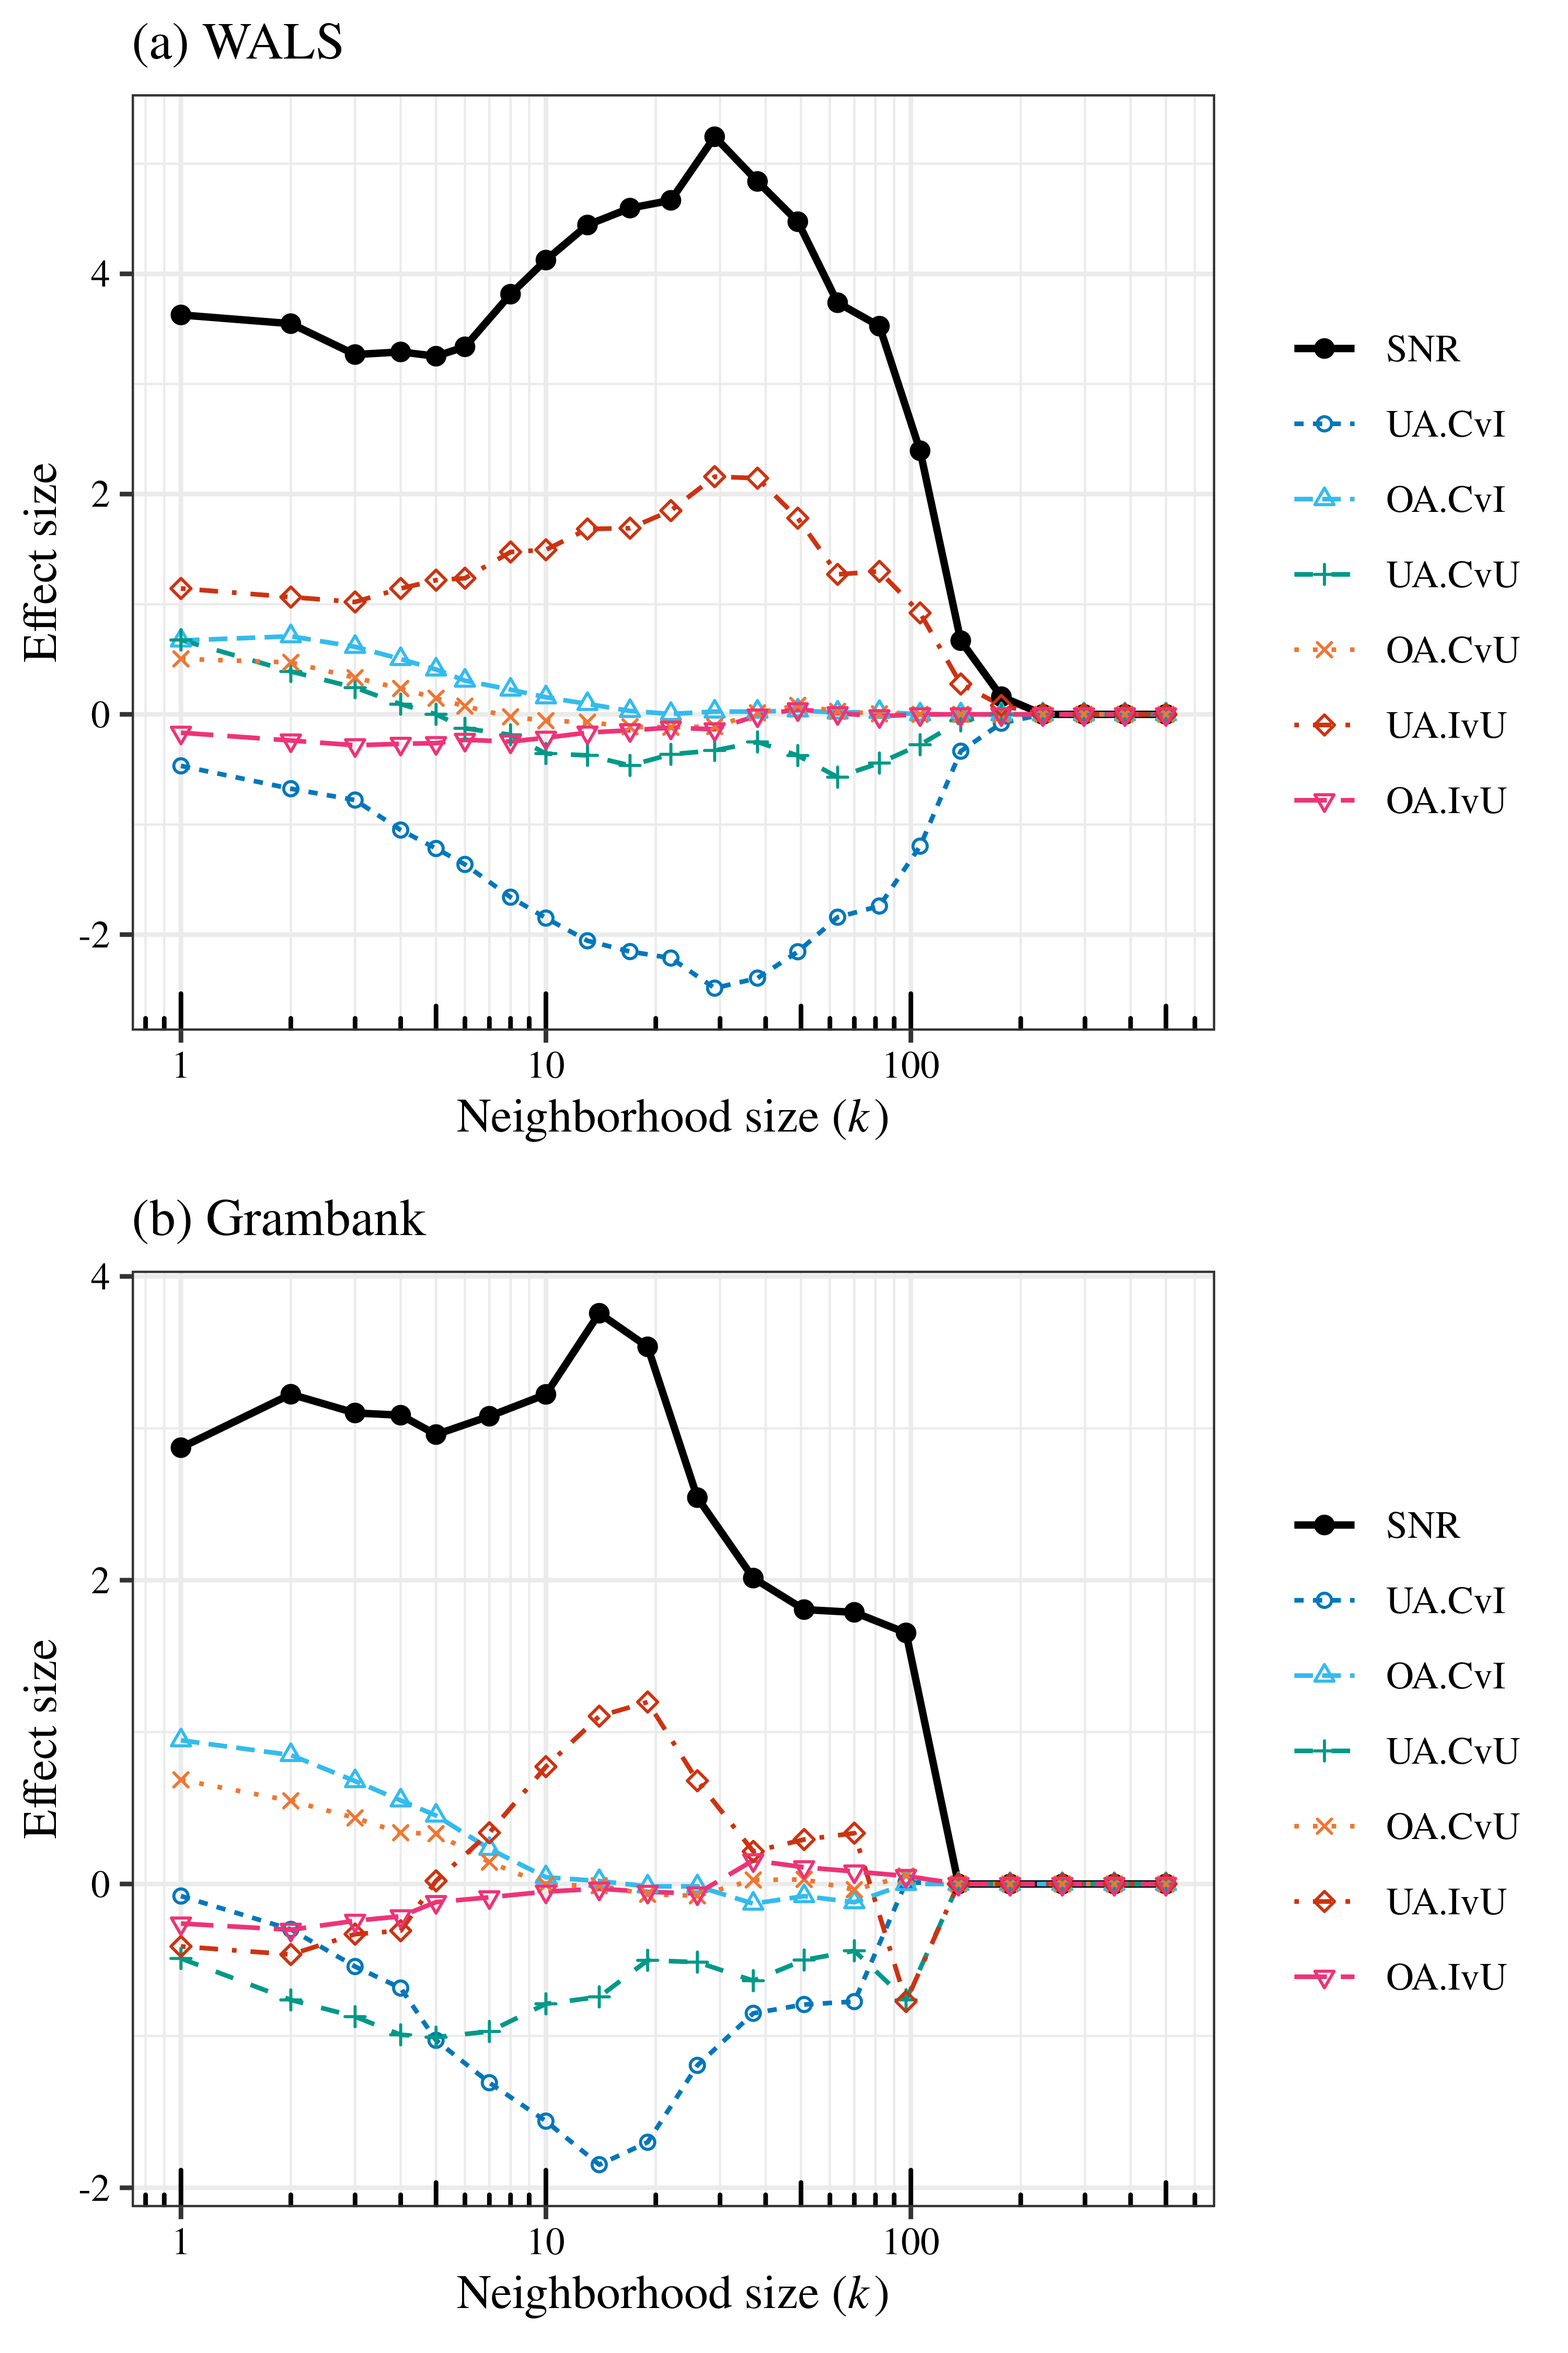
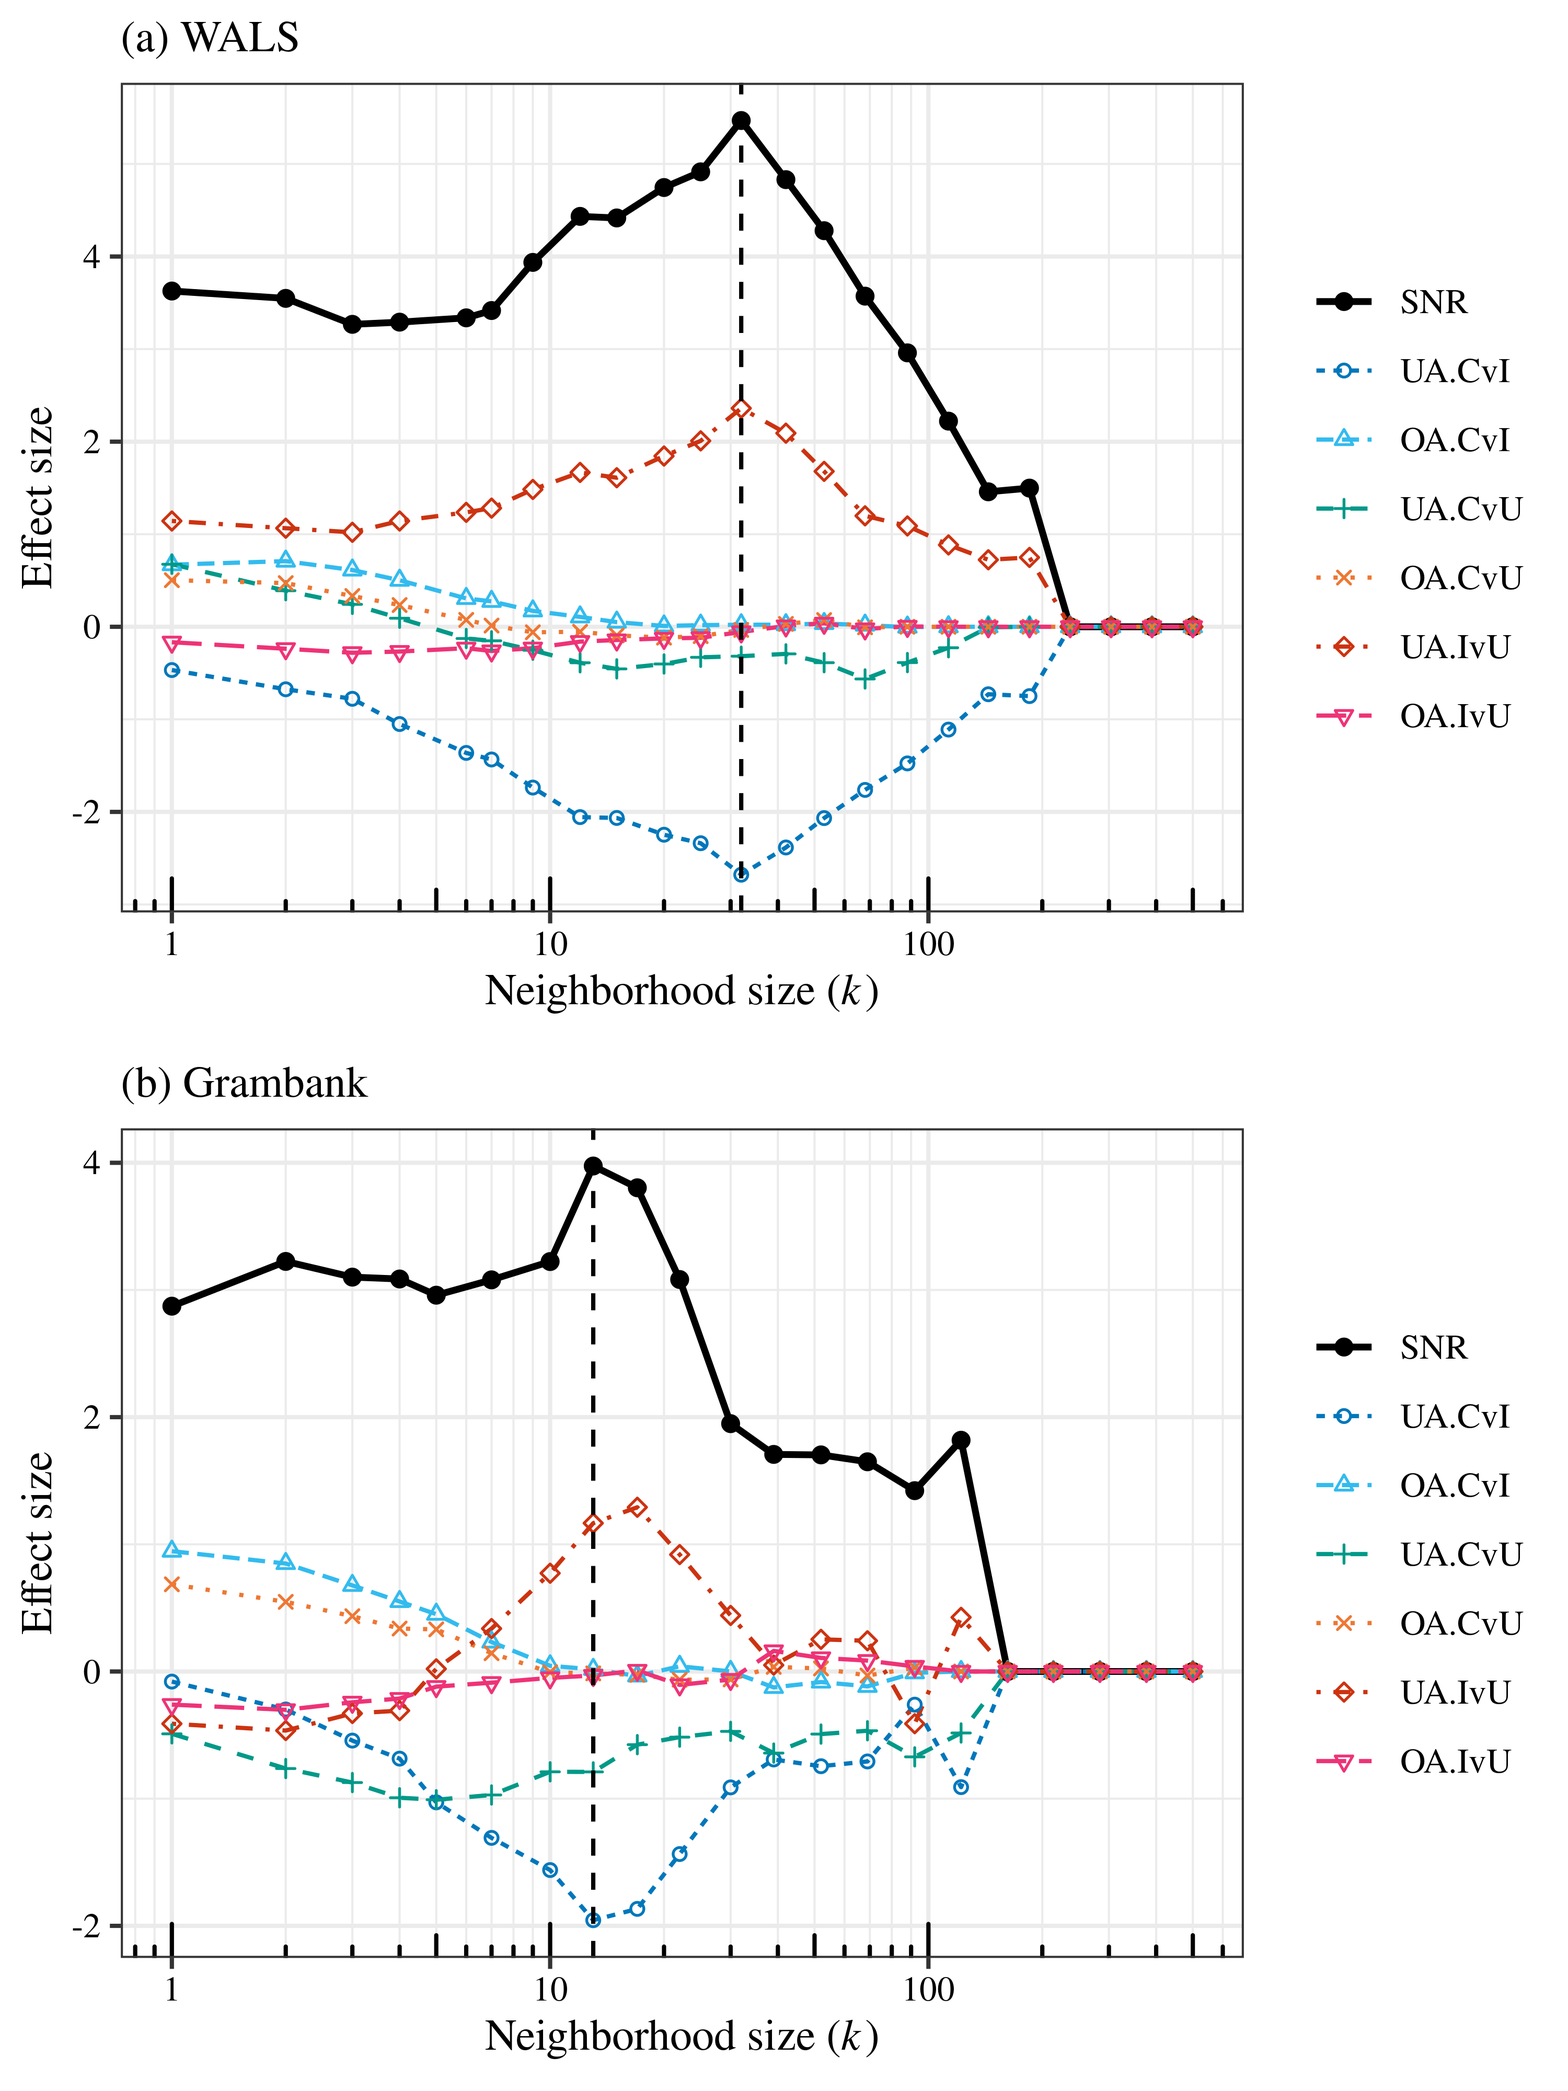
all up to date

diff --git a/results/stats.html b/results/stats.html
@@ -405,6 +405,7 @@ typological features to survive: geospatial evidence</h1>
 <li><a href="#preliminaries">Preliminaries</a></li>
 <li><a href="#descriptive-statistics">Descriptive statistics</a></li>
 <li><a href="#neighborhood-size-sweep">Neighborhood size sweep</a></li>
+<li><a href="#mean-distances">Mean distances</a></li>
 <li><a href="#basic-model-comparison-of-delta-between-typologies-of-different-statuses">Basic
 model: comparison of <span class="math inline">\(\Delta\)</span> between
 typologies of different statuses</a>
@@ -449,7 +450,7 @@ deftheme &lt;- function() {
     g &lt;- g + theme(strip.text=element_text(size=10), strip.background=element_blank())
     #g &lt;- g + theme(strip.text=element_text(size=12, hjust=0), strip.background=element_blank()  )
     g &lt;- g + theme(text=element_text(family=&quot;Times&quot;))
-    g &lt;- g + theme(plot.title=element_text(size=12))
+    g &lt;- g + theme(plot.title=element_text(size=11))
     g
 }</code></pre>
 <p>Prepare data:</p>
@@ -2486,8 +2487,31 @@ wals_ideal &lt;- which.max(klops[klops$dataset == &quot;WALS&quot;, ]$SNR)</code
[1 lines of base64/hex data omitted]
 <pre class="r"><code>gram_ideal &lt;- which.max(klops[klops$dataset == &quot;Grambank&quot;, ]$SNR)
 
+fullwals &lt;- wals
+fullgram &lt;- gram
+
 wals &lt;- wals[wals$degree == wals_ideal, ]
-gram &lt;- gram[gram$degree == gram_ideal, ]</code></pre>
+gram &lt;- gram[gram$degree == gram_ideal, ]
+
+print(wals_ideal)</code></pre>
+<pre><code>## [1] 32</code></pre>
+<pre class="r"><code>print(gram_ideal)</code></pre>
+<pre><code>## [1] 13</code></pre>
+</div>
+<div id="mean-distances" class="section level1">
+<h1>Mean distances</h1>
+<pre class="r"><code>mean(fullwals[fullwals$degree==1, ]$mean_distance)</code></pre>
+<pre><code>## [1] 203.0066</code></pre>
+<pre class="r"><code>mean(fullwals[fullwals$degree==wals_ideal, ]$mean_distance)</code></pre>
+<pre><code>## [1] 892.0707</code></pre>
+<pre class="r"><code>mean(fullwals[fullwals$degree==500, ]$mean_distance)</code></pre>
+<pre><code>## [1] 6594.767</code></pre>
+<pre class="r"><code>mean(fullgram[fullgram$degree==1, ]$mean_distance)</code></pre>
+<pre><code>## [1] 166.3185</code></pre>
+<pre class="r"><code>mean(fullgram[fullgram$degree==gram_ideal, ]$mean_distance)</code></pre>
+<pre><code>## [1] 519.0417</code></pre>
+<pre class="r"><code>mean(fullgram[fullgram$degree==500, ]$mean_distance)</code></pre>
+<pre><code>## [1] 6272.166</code></pre>
 </div>
 <div id="basic-model-comparison-of-delta-between-typologies-of-different-statuses" class="section level1">
 <h1>Basic model: comparison of <span class="math inline">\(\Delta\)</span> between typologies of different
@@ -2699,8 +2723,8 @@ for (i in 1:2) {
 <h2><span class="math inline">\(\phi\)</span> comparison</h2>
 <pre class="r"><code>comp &lt;- merge(wals, gram, by=&quot;pair_ID&quot;)
 
-g1 &lt;- ggplot(comp, aes(x=abs_phi.x, y=abs_phi.y)) + geom_point() + geom_smooth(method=lm) + xlab(&quot;WALS&quot;) + ylab(&quot;Grambank&quot;) + xlim(0,1) + ylim(0,1) + ggtitle(expression(&quot;Plain correlation coefficient&quot;~phi)) + deftheme()
-g2 &lt;- ggplot(comp, aes(x=abs_corrected_phi.x, y=abs_corrected_phi.y)) + geom_point() + geom_smooth(method=lm) + xlab(&quot;WALS&quot;) + ylab(&quot;Grambank&quot;) + xlim(0,1) + ylim(0,1) + ggtitle(expression(&quot;Corrected correlation coefficient&quot;~phi[c])) + deftheme()
+g1 &lt;- ggplot(comp, aes(x=abs_phi.x, y=abs_phi.y)) + geom_point() + geom_smooth(method=lm) + xlab(&quot;WALS&quot;) + ylab(&quot;Grambank&quot;) + xlim(0,1) + ylim(0,1) + ggtitle(expression(&quot;(a) Plain correlation coefficient&quot;~phi)) + deftheme()
+g2 &lt;- ggplot(comp, aes(x=abs_corrected_phi.x, y=abs_corrected_phi.y)) + geom_point() + geom_smooth(method=lm) + xlab(&quot;WALS&quot;) + ylab(&quot;Grambank&quot;) + xlim(0,1) + ylim(0,1) + ggtitle(expression(&quot;(b) Corrected correlation coefficient&quot;~phi[c])) + deftheme()
 
 png(filename=&quot;../../results/plots/grambankwals.png&quot;, width=3000, height=1600, res=500)
 grid.arrange(g1, g2, nrow=1)</code></pre>
